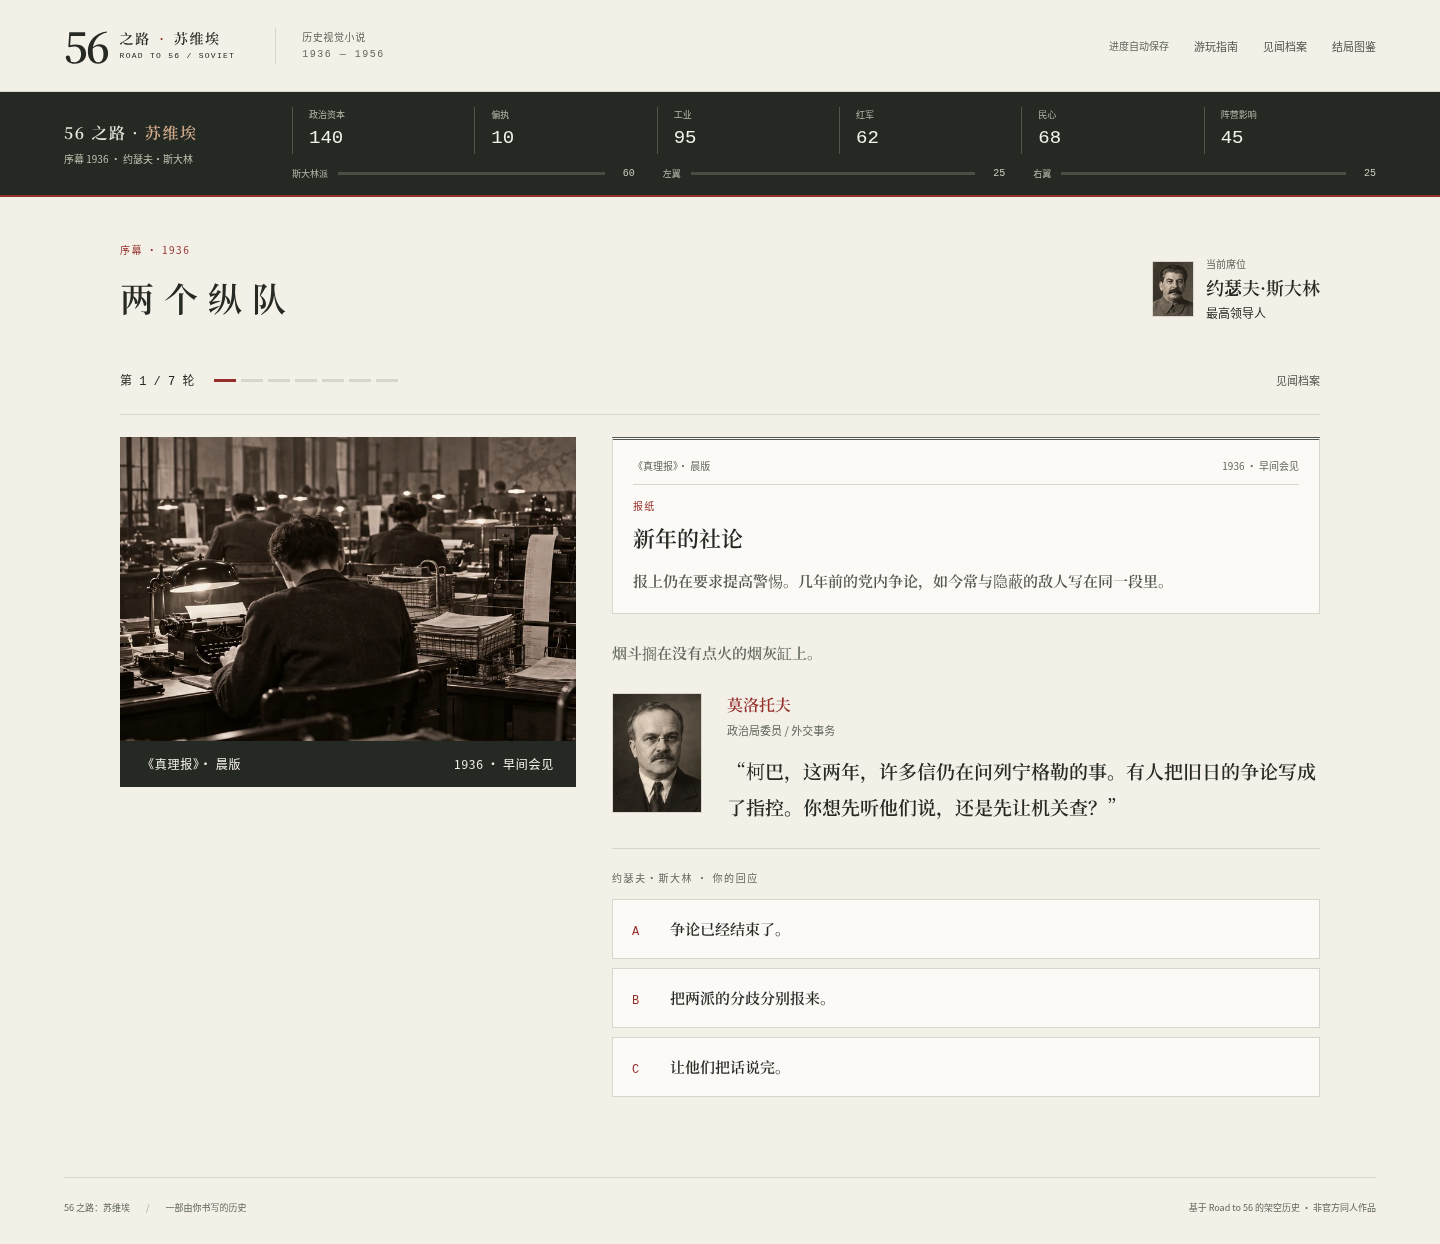
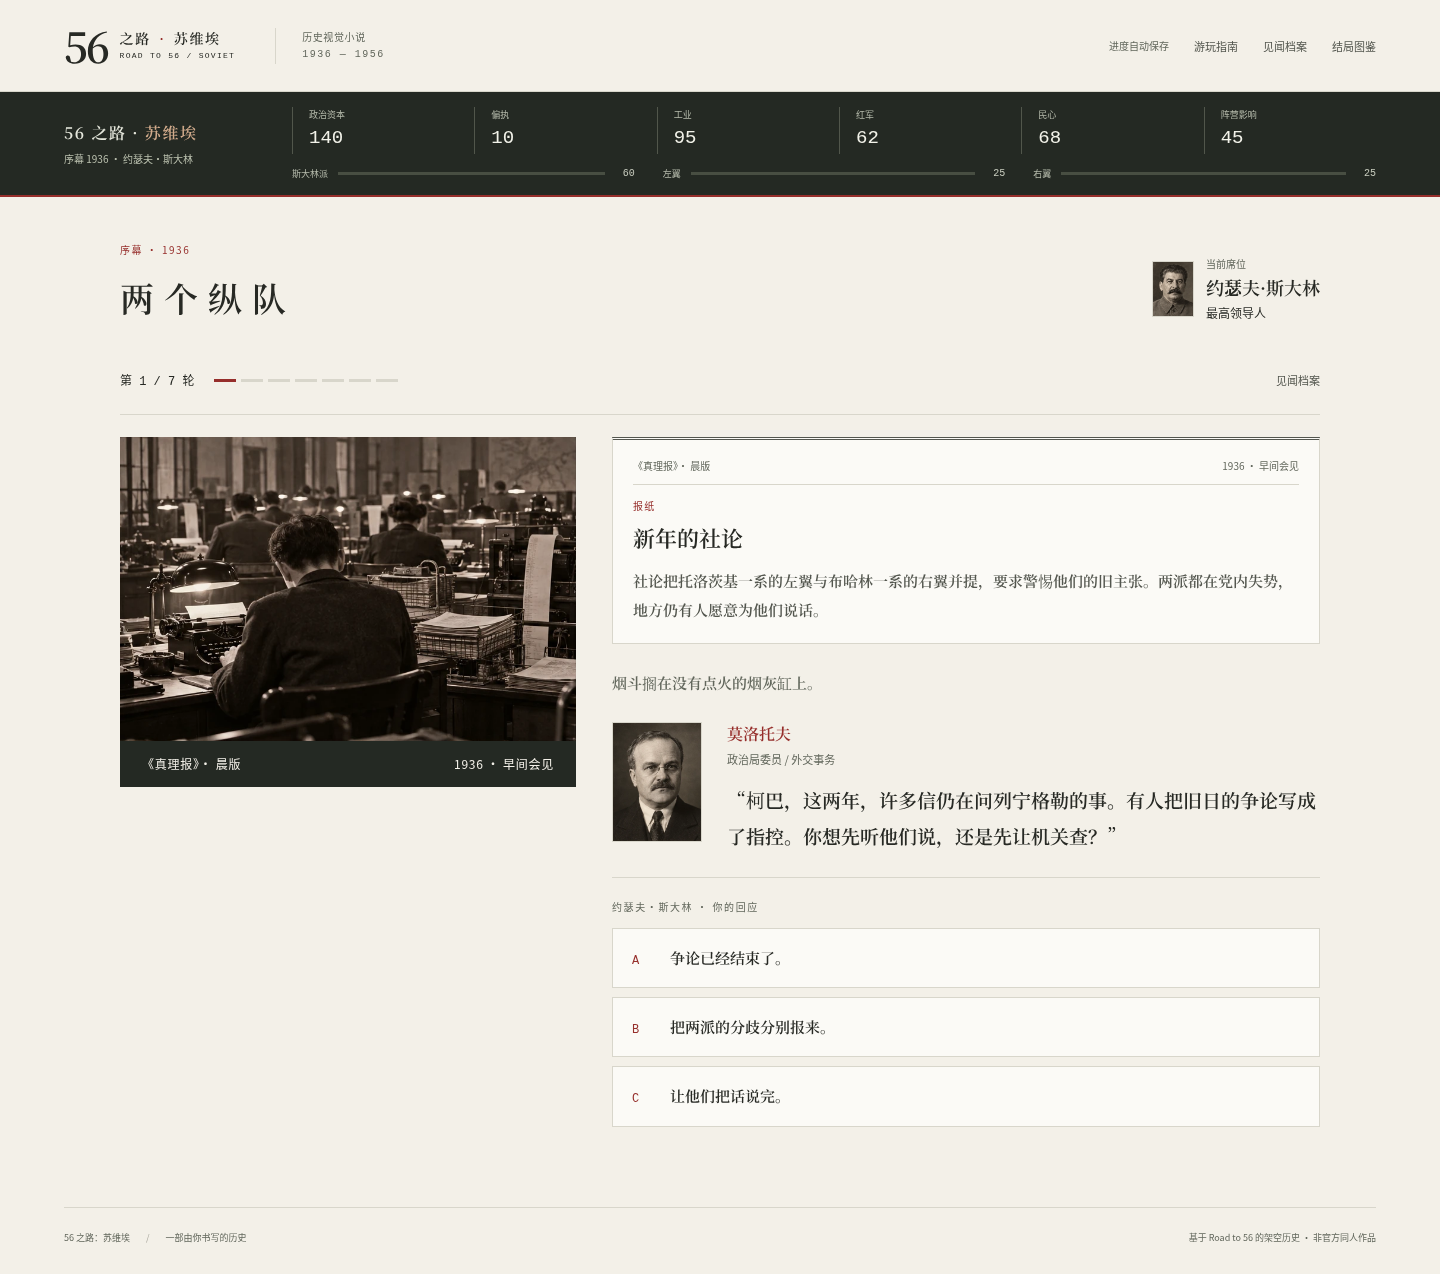
clarify opposition factions through the opening newspaper

diff --git a/world-content.js b/world-content.js
@@ -38,7 +38,7 @@ function worldFragment(row) {
 const WORLD_EVENTS = Object.fromEntries(
   Object.entries({
     "0-1": [
-      "paper|《真理报》· 晨版|新年的社论|报上仍在要求提高警惕。几年前的党内争论，如今常与隐蔽的敌人写在同一段里。|newsroom",
+      "paper|《真理报》· 晨版|新年的社论|社论把托洛茨基一系的左翼与布哈林一系的右翼并提，要求警惕他们的旧主张。两派都在党内失势，地方仍有人愿意为他们说话。|newsroom",
       "petition|加里宁转来的一封信|请让他回来解释|“他以前在会上说过错话。可从那以后，他每天照常上班。请告诉我们，该到哪里问他的下落。”|kitchen",
       "party|书记处会议摘记|谁还能参加下一次会议|一位委员主张查办全部反对派，另一位要求分别对待。记录员没有写下争论的结论。|corridor",
       "guard|值班室门外|换岗之后|“又有人等到夜里了？”“别问。秘书说，今天还要开一次会。”脚步声在门口停下。|corridor",
